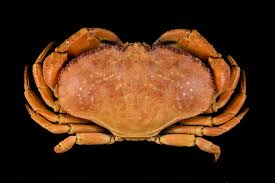
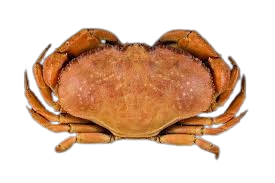
crab

diff --git a/style.css b/style.css
@@ -89,7 +89,7 @@ a:active {
 }
 .absolutecrab {
   position: absolute;
-  top: -35%;
+  top: -20%;
   right: 0;
   transform: rotate(180deg);
 }
